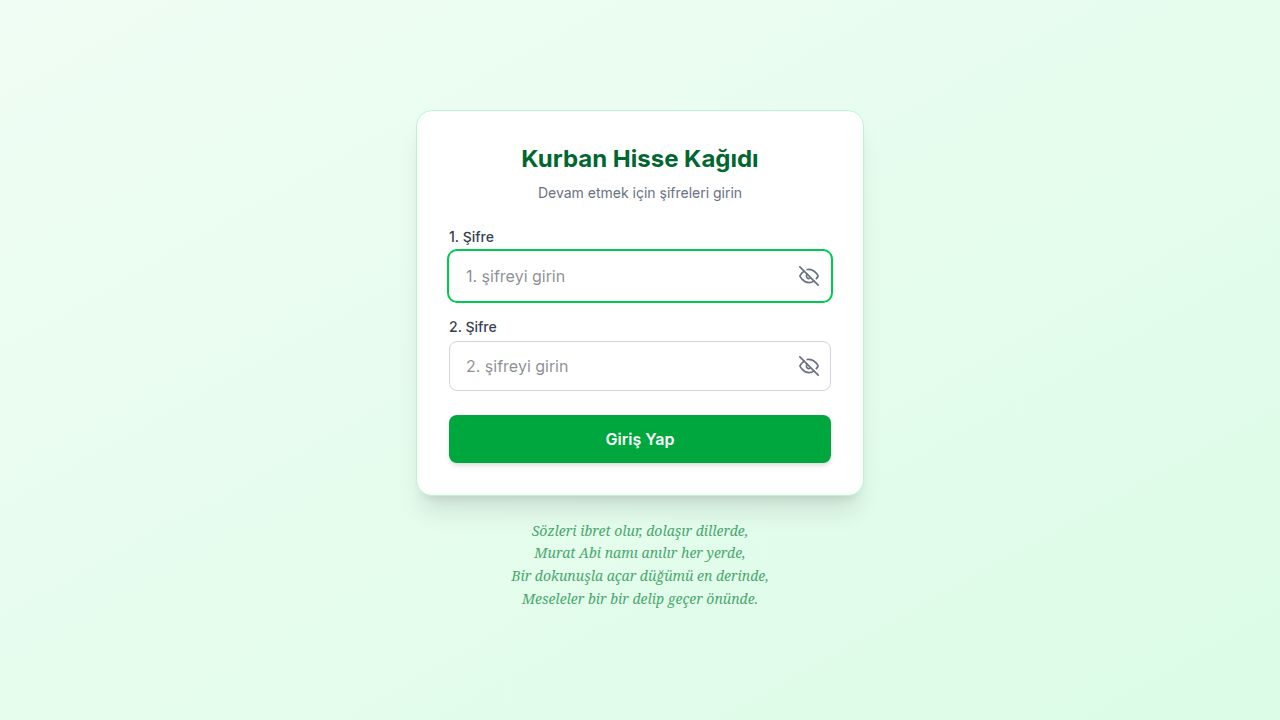
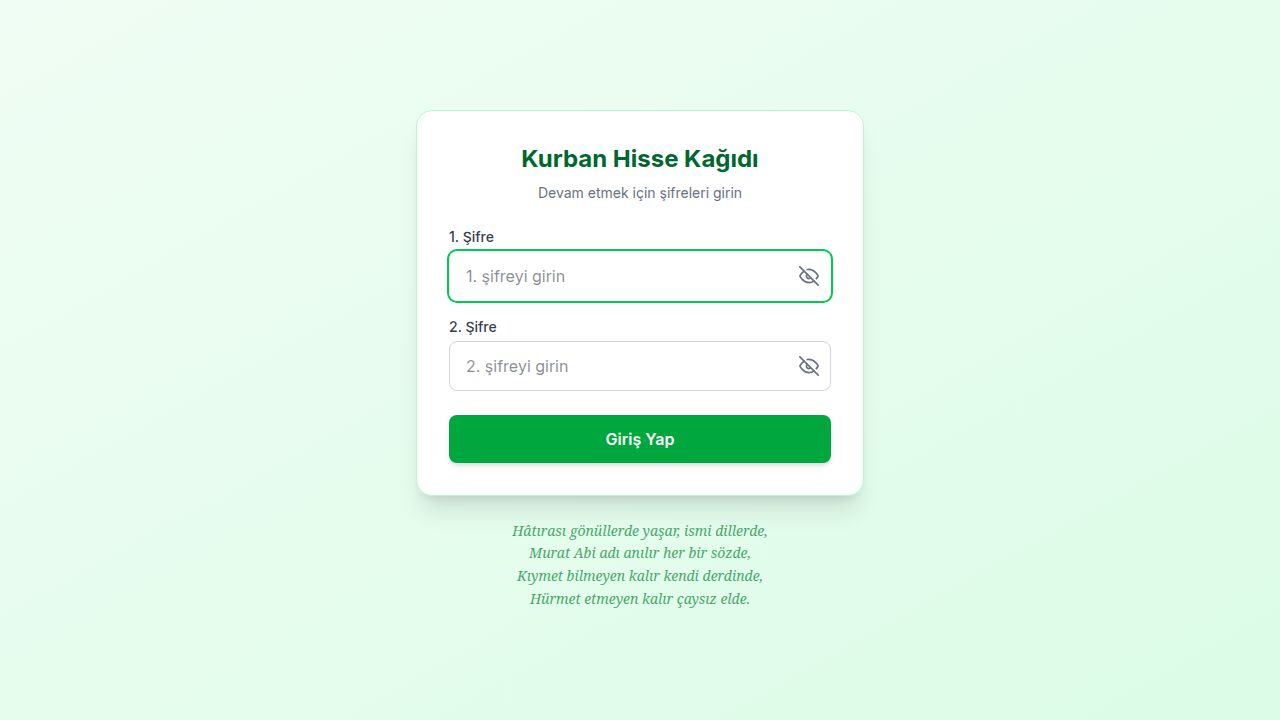
fix: Print layout A4 hataları düzeltildi
Tespit edilen ve düzeltilen hatalar:
1. overflow: hidden → print modunda visible yapıldı (tüm şablonlar)
   - İçerik kesilmesi (clipping) önlendi
2. max-height: auto geçersiz CSS değeri → none ile değiştirildi
3. print padding: 0 5mm → 3mm 8mm (üst/alt kenar boşluğu eklendi)
   - İçerik artık kağıt kenarına yapışmıyor
4. Sadece page-break-after: always → break-after: page de eklendi
   - Modern tarayıcı desteği (Chrome/Edge/Firefox yeni sürümleri)
5. break-inside: avoid da page-break-inside: avoid yanına eklendi

Etkilenen şablonlar:
- Standard (landscape A4) — .print-page
- Portrait (portrait A4) — .template-portrait .print-page-portrait
- Compact (landscape, 20 grup/sayfa) — .template-compact .print-page-compact
- Summary (landscape, 25 grup/sayfa) — .template-summary .print-page-compact
- NameList (portrait, 35 satır/sayfa) — .template-namelist .print-page-portrait

Dosya: artifacts/hisse-kagidi/src/index.css

Changed region(s): [[0.4062, 0.7333, 0.5938, 0.8556]]

diff --git a/artifacts/hisse-kagidi/src/index.css b/artifacts/hisse-kagidi/src/index.css
@@ -279,12 +279,15 @@
   .print-page {
     box-shadow: none;
     page-break-after: always;
+    break-after: page;
     page-break-inside: avoid;
+    break-inside: avoid;
     margin: 0;
-    padding: 0 5mm;
+    padding: 3mm 8mm;
     width: 100%;
     min-height: auto;
-    max-height: auto;
+    max-height: none;
+    overflow: visible;
   }
 }
 
@@ -459,12 +462,15 @@
   .template-portrait .print-page-portrait {
     box-shadow: none;
     page-break-after: always;
+    break-after: page;
     page-break-inside: avoid;
+    break-inside: avoid;
     margin: 0;
-    padding: 0 5mm;
+    padding: 3mm 8mm;
     width: 100%;
     min-height: auto;
-    max-height: auto;
+    max-height: none;
+    overflow: visible;
   }
 }
 
@@ -479,12 +485,15 @@
   .template-compact .print-page-compact {
     box-shadow: none;
     page-break-after: always;
+    break-after: page;
     page-break-inside: avoid;
+    break-inside: avoid;
     margin: 0;
-    padding: 0 5mm;
+    padding: 3mm 8mm;
     width: 100%;
     min-height: auto;
-    max-height: auto;
+    max-height: none;
+    overflow: visible;
   }
 }
 
@@ -667,12 +676,15 @@
   .template-summary .print-page-compact {
     box-shadow: none;
     page-break-after: always;
+    break-after: page;
     page-break-inside: avoid;
+    break-inside: avoid;
     margin: 0;
-    padding: 0 5mm;
+    padding: 3mm 8mm;
     width: 100%;
     min-height: auto;
-    max-height: auto;
+    max-height: none;
+    overflow: visible;
   }
 }
 
@@ -715,12 +727,15 @@
   .template-namelist .print-page-portrait {
     box-shadow: none;
     page-break-after: always;
+    break-after: page;
     page-break-inside: avoid;
+    break-inside: avoid;
     margin: 0;
-    padding: 0 5mm;
+    padding: 3mm 8mm;
     width: 100%;
     min-height: auto;
-    max-height: auto;
+    max-height: none;
+    overflow: visible;
   }
 }
 